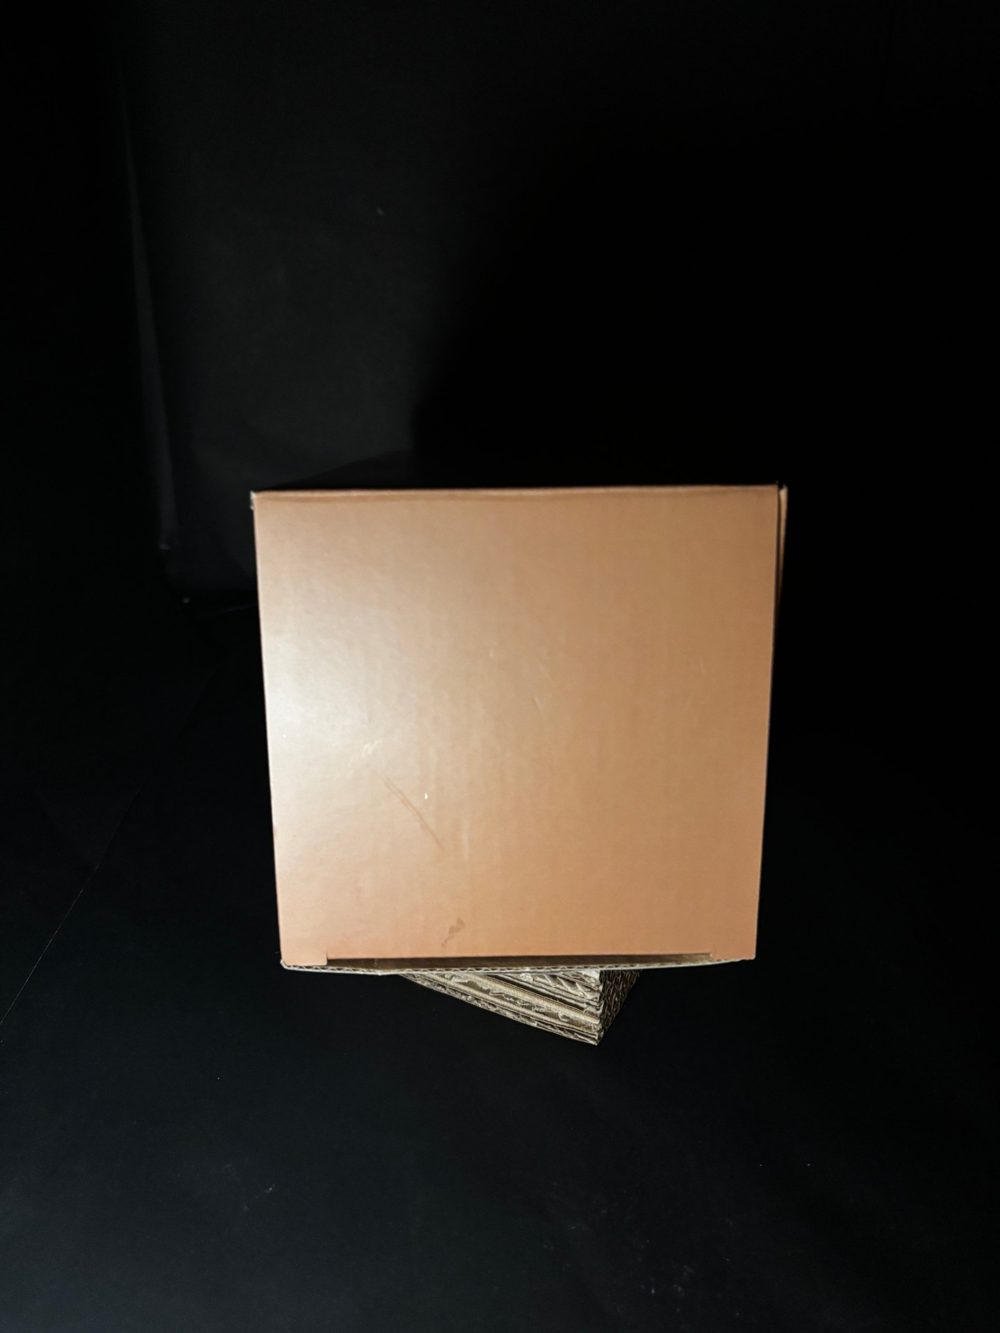
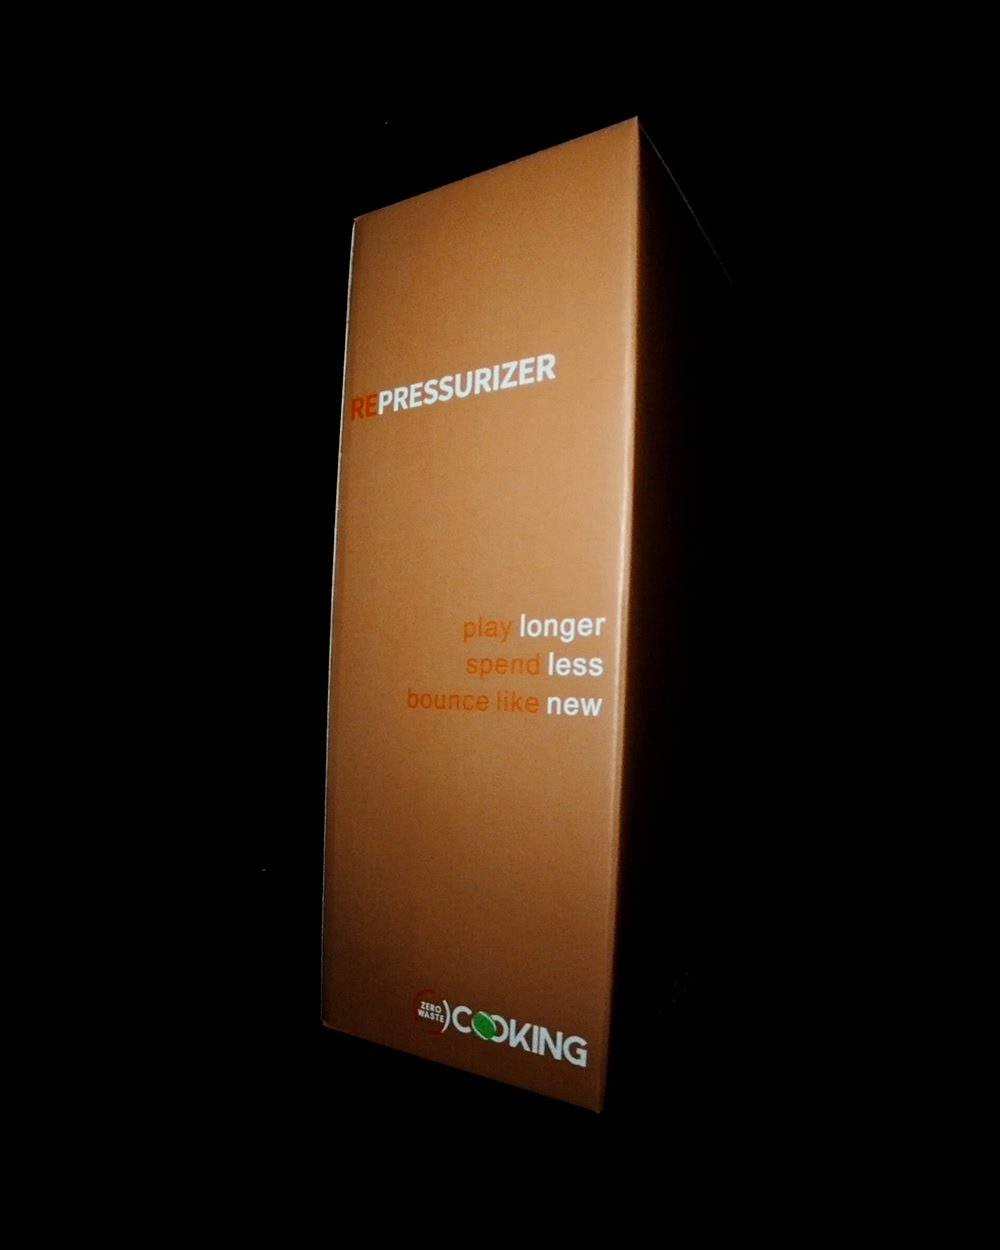
Replace plain box photo with printed front of the retail box; darken backgrounds
Claude-Session: https://claude.ai/code/session_01C6uZZicD2kwdGPPwPeGtyt

diff --git a/index.html b/index.html
@@ -321,7 +321,7 @@
       <div class="spec reveal"><p class="v">Schrader</p><p class="k">Inflation valve (US type)</p></div>
     </div>
     <div class="box">
-      <img class="reveal" src="assets/box-closed.jpg" alt="rePressurizer retail box">
+      <img class="reveal" src="assets/box-closed.jpg" alt="rePressurizer retail box: Play longer, spend less, bounce like new">
       <img class="reveal" src="assets/box-open.jpg" alt="rePressurizer lid inside the opened box">
     </div>
     <p class="inbox reveal"><b>In the box:</b> pressurizer bottle ×1 · pressurizer lid ×1 · securing pin ×1 · multilingual instructions (English, 中文, Español, 日本語). Air pump not included.</p>
